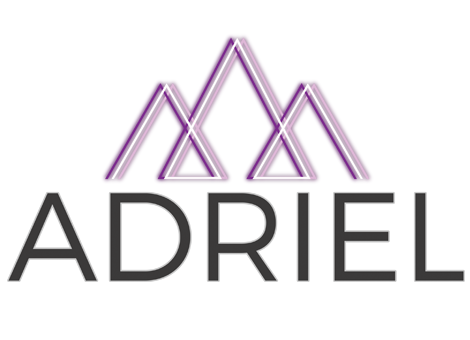
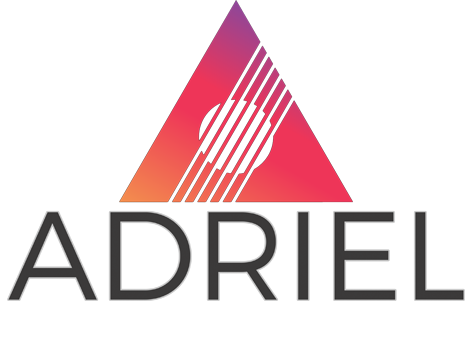
quick and dirty

Changed region(s): [[0.0, 0.0, 0.9234, 0.8824], [0.6255, 0.7941, 1.0, 0.8824]]

diff --git a/_sass/minima/custom-styles.scss b/_sass/minima/custom-styles.scss
@@ -19,3 +19,11 @@ img.centered {
   color: white;
   text-transform: uppercase;
 }
+
+.site-title::before {
+  content: url("/assets/images/header-logo.png");
+  display: inline-block;
+  position: relative;
+  width: 69px;
+  height: 60px;
+  }
